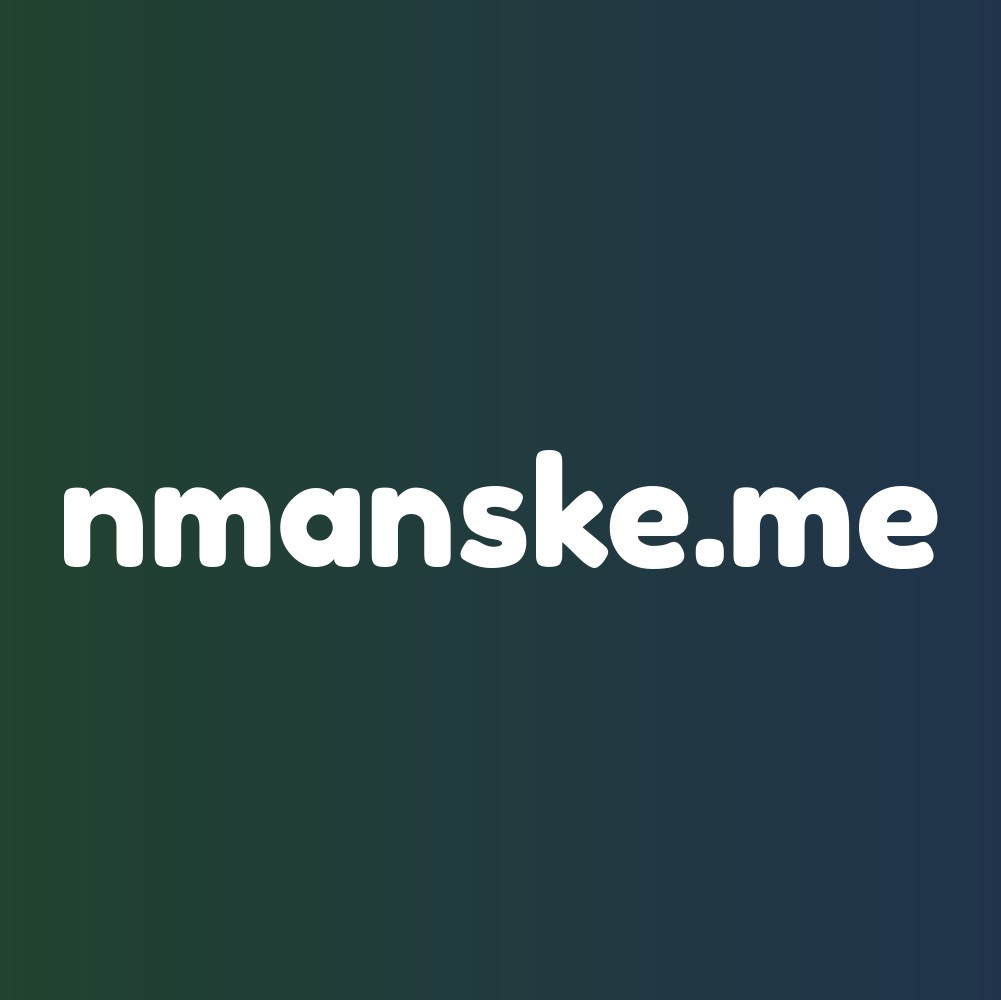
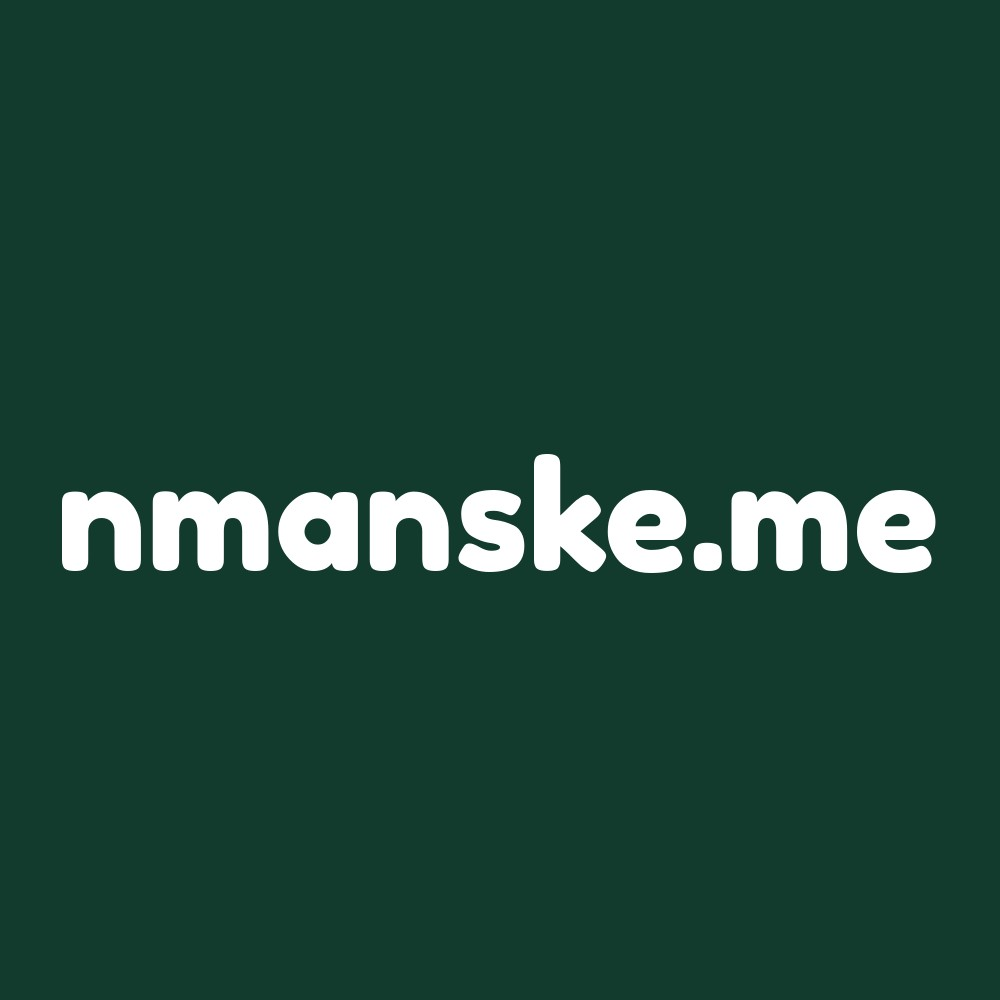
Fix ogp bugs; change ogp image

diff --git a/styles/css/main.min.css b/styles/css/main.min.css
@@ -1,1 +1,1 @@
-body{color:#fff;font-family:"Hind",sans-serif;background:#283c86;background:-webkit-linear-gradient(to right, #318031, #2c459e);background:linear-gradient(to right, #318031, #2c459e)}h1,h2{font-family:"Fredoka One",cursive}h1{font-size:75px;padding-top:50px;margin-bottom:0}h2{font-size:50px}header{padding-top:30px;margin-top:60px}footer{padding:30px 0 20px 0;margin-bottom:60px}a{color:#fff;text-decoration:underline}a:hover{color:#7f7f7f}img{width:100%}figcaption{margin-bottom:.8em}.container{background:rgba(20,20,20,.5);padding:0 75px}.btn-findme{font-size:52px;padding:20px 55px 0}.btn-findme:hover{color:#7f7f7f}.subject{font-family:"Sniglet",cursive;font-size:47px;margin-bottom:25px}.project{border-radius:20px;padding-bottom:10px}.self{display:block;margin:auto;max-width:400px;max-height:400px}.bio{font-size:20px}.skills{padding:15px;border:1px dashed;margin:auto;font-size:20px}.projects{font-size:20px;padding-top:20px}/*# sourceMappingURL=main.min.css.map */
+body{color:#fff;font-family:"Hind",sans-serif;background:#283c86;background:-webkit-linear-gradient(to right, #318031, #2c459e);background:linear-gradient(to right, #318031, #2c459e)}h1,h2{font-family:"Fredoka One",cursive}h1{font-size:75px;padding-top:50px;margin-bottom:0}h2{font-size:50px}header{padding-top:30px;margin-top:60px}footer{padding:30px 0 20px 0;margin-bottom:60px}a{color:#fff;text-decoration:underline}a:hover{color:#7f7f7f}img{width:100%}figcaption{margin-bottom:.8em}.container{background:#123a2d;padding:0 75px}.btn-findme{font-size:52px;padding:20px 55px 0}.btn-findme:hover{color:#7f7f7f}.subject{font-family:"Sniglet",cursive;font-size:47px;margin-bottom:25px}.project{border-radius:20px;padding-bottom:10px}.self{display:block;margin:auto;max-width:400px;max-height:400px}.bio{font-size:20px}.skills{padding:15px;border:1px dashed;margin:auto;font-size:20px}.projects{font-size:20px;padding-top:20px}/*# sourceMappingURL=main.min.css.map */

diff --git a/index.html b/index.html
@@ -10,14 +10,16 @@
   <meta name="theme-color" content="#0000ff">
   <meta name="viewport" content="width=device-width, initial-scale=1, shrink-to-fit=no">
   <meta property="og:title" content="Nathan Manske - Software Engineer">
+  <meta property="og:description" content="Personal website">
   <meta property="og:type" content="profile">
   <meta property="og:locale" content="en_US">
-  <meta property="og:url" content="http://nmanske.me">
-  <meta property="og:image" content="http://nmanske.me/images/1000.jpg">
-  <meta property="og:image:secure_url" content="https://nmanske.me/images/1000.jpg" />
+  <meta property="og:url" content="http://nmanske.me/">
+  <meta property="og:image" content="http://nmanske.me/images/1000.png">
+  <meta property="og:image:secure_url" content="https://nmanske.me/images/1000.png">
+  <meta property="og:image:alt" content="Stylized domain name">
   <meta property="og:image:width" content="1000">
   <meta property="og:image:height" content="1000">
-  <meta property="og:image:type" content="image/jpeg">
+  <meta property="og:image:type" content="image/png">
   <meta property="profile:first_name" content="Nathan">
   <meta property="profile:last_name" content="Manske">
   <meta property="profile:gender" content="male">

diff --git a/styles/sass/_variables.scss b/styles/sass/_variables.scss
@@ -4,7 +4,8 @@ $background-modern: linear-gradient(to right, #318031, #2c459e);
 $background-webkit: -webkit-linear-gradient(to right, #318031, #2c459e);
 $background-fallback: #283c86;
 
-$background-container: rgba(20, 20, 20, 0.5);
+// $background-container: rgba(20, 20, 20, 0.5);
+$background-container: #123a2d;
 
 // Fonts & Text
 
